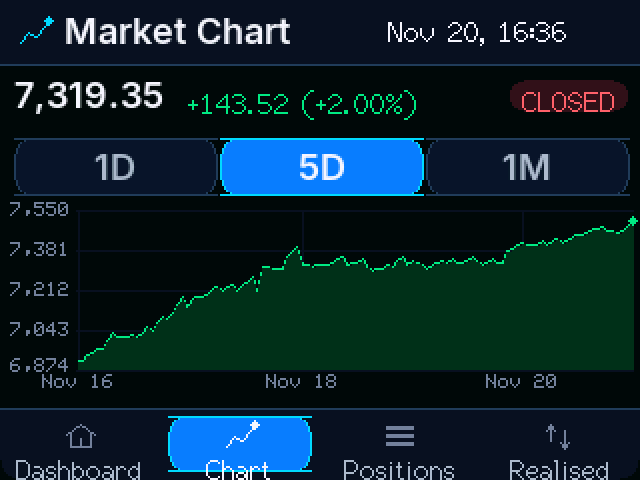
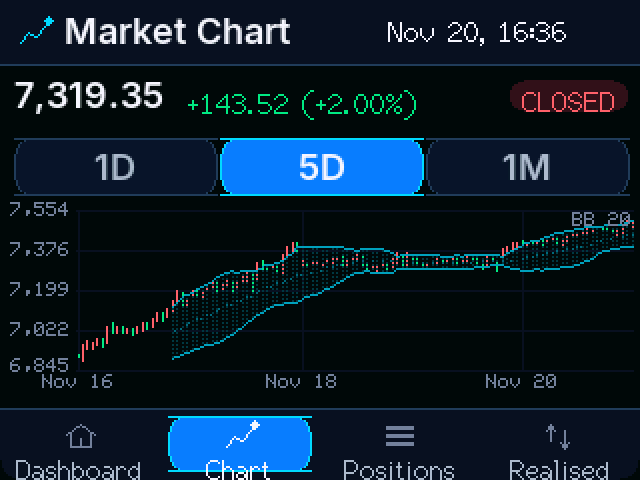
docs: README screenshots now show the panel's candle + Bollinger chart
make_readme_img.py points at the bands-on preview frames (bbon_chart_1d_p10,
bbup_chart_5d_p20) and the preview's S_UP fixture reverses the whole bar instead
of only the closes - the old half-reversal left every candle with another bar's
open/high/low, which the line chart hid and candlesticks exposed.

diff --git a/tests/preview/preview.cpp b/tests/preview/preview.cpp
@@ -152,9 +152,17 @@ static void build(AppState &a, Scn s, uint32_t epoch) {
   if (s == S_STALE) { a.sp.failed = true; for (int i = 0; i < a.book.n; i++) a.book.q[i].failed = true; for (auto &c : a.charts) c.failed = true; }
   if (s == S_UP) {
     // a rising period: the plot line and its fill must be GREEN for all three
-    // ranges (the fixtures are all falling, so they only cover the red path)
+    // ranges (the fixtures are all falling, so they only cover the red path).
+    // Reverse the whole bar, not just the close: a candle whose open/high/low come from a
+    // different bar than its close is pure noise (it drew a fan of giant wicks before).
+    // Timestamps stay put, so the x axis and the labels are untouched.
     for (auto &c : a.charts) {
-      for (uint16_t i = 0, j = c.n ? c.n - 1 : 0; i < j; i++, j--) { float t2 = c.v[i]; c.v[i] = c.v[j]; c.v[j] = t2; }
+      for (uint16_t i = 0, j = c.n ? c.n - 1 : 0; i < j; i++, j--) {
+        float t2 = c.v[i]; c.v[i] = c.v[j]; c.v[j] = t2;
+        t2 = c.o[i]; c.o[i] = c.o[j]; c.o[j] = t2;
+        t2 = c.h[i]; c.h[i] = c.h[j]; c.h[j] = t2;
+        t2 = c.l[i]; c.l[i] = c.l[j]; c.l[j] = t2;
+      }
       c.base = c.v[0] * 0.98f;              // reference below the close -> change > 0
     }
     a.sp.last = a.sp.prevClose * 1.02;      // header change also positive
@@ -284,6 +292,16 @@ int main(int argc, char **argv) {
       printf("  PROBLEM bb: candles not drawn (green %zu red %zu)\n", green, red); g_problems++;
     } else printf("bb: candles %zu green / %zu red bar pixels\n", green, red);
   }
+
+  // the same bands over an up day: the README keeps one chart image per direction, and both
+  // should show what the panel draws with the switch on (candles + bands), not the old line.
+  build(a, S_UP, NOW_CLOSED);
+  UI::setScreen(UI::SC_CHART);
+  a.settings.bbLcd = 1;
+  a.settings.bbLcdP = 20;
+  UI::setRange(RANGE_5D);
+  showFrame("bbup_chart_5d_p20");
+  a.settings.bbLcd = 0;                    // back to the shipped default for the frames below
 
   // incremental path: change a quote and let the 4 Hz cache repaint without a
   // full invalidate; the result must match a fresh render of the same state.

diff --git a/tools/make_readme_img.py b/tools/make_readme_img.py
@@ -22,10 +22,12 @@ GAP = 8
 BG = (24, 26, 32)          # the app background, so the gutters match the UI
 
 # name in docs/img -> frame produced by the preview harness
+# The two chart images use the bands-on frames: with the "BB + candles on the LCD chart" switch
+# on, the panel draws candlesticks plus Bollinger Bands, and that is the look worth showing.
 SINGLES = {
     "lcd-dashboard.png": "normal_p1_dashboard.png",
-    "lcd-chart-down.png": "normal_p2_chart_1d.png",
-    "lcd-chart-up.png": "up_p2_chart_5d.png",
+    "lcd-chart-down.png": "bbon_chart_1d_p10.png",
+    "lcd-chart-up.png": "bbup_chart_5d_p20.png",
     "lcd-positions.png": "many_p3_positions_w0.png",
     "lcd-realised.png": "realised_p4_realised.png",
     "lcd-empty.png": "empty_p1_dashboard.png",
@@ -36,7 +38,7 @@ SINGLES = {
 # 2x2 contact sheet of the four rotating screens, reading order = nav order
 GRID = [
     "normal_p1_dashboard.png",
-    "normal_p2_chart_1d.png",
+    "bbon_chart_1d_p10.png",
     "many_p3_positions_w0.png",
     "realised_p4_realised.png",
 ]

diff --git a/README.md b/README.md
@@ -18,20 +18,25 @@ the firmware's real drawing code run on a PC against a mock `TFT_eSPI` with samp
 
 ## Screenshots
 
-| Dashboard (portfolio + ^GSPC card) | Market chart, down day (red) |
+| Dashboard (portfolio + ^GSPC card) | Market chart 1D, down day (BB + candles) |
 |---|---|
-| ![Dashboard](docs/img/lcd-dashboard.png) | ![Chart on a down day](docs/img/lcd-chart-down.png) |
+| ![Dashboard](docs/img/lcd-dashboard.png) | ![Chart on a down day, candles with Bollinger Bands](docs/img/lcd-chart-down.png) |
 
-| Market chart, up day (green) | Positions (8 lots, 1 of 3 pages) |
+| Market chart 5D, up day (BB + candles) | Positions (8 lots, 1 of 3 pages) |
 |---|---|
-| ![Chart on an up day](docs/img/lcd-chart-up.png) | ![Positions table](docs/img/lcd-positions.png) |
+| ![Chart on an up day, candles with Bollinger Bands](docs/img/lcd-chart-up.png) | ![Positions table](docs/img/lcd-positions.png) |
 
 | Realised P/L | First boot, no positions yet |
 |---|---|
 | ![Realised P/L](docs/img/lcd-realised.png) | ![Empty portfolio](docs/img/lcd-empty.png) |
 
 The plot is drawn green or red by the sign of the range's change, so 1D is measured against
-the previous close and 5D / 1M against their own first bar. Offline and no-data states are
+the previous close and 5D / 1M against their own first bar. Both chart images above have the
+**BB + candles** switch on (web Settings tab): bodies and wicks come from the stored open /
+high / low, each bar coloured by its own close against its own open, with Bollinger Bands
+(SMA + 2 sigma) over them and the period actually used printed in the corner - `BB 10` on the
+79-bar 1D, `BB 20` on the 112-bar 5D. With the switch off the same page is the plain
+single-colour line and fill. Offline and no-data states are
 drawn too (`docs/img/lcd-offline.png`), as is the boot banner.
 
 ## Features
